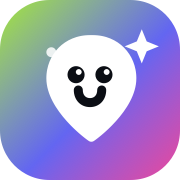
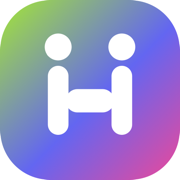
Rebrand to Hanglly

diff --git a/src/pages/LandingPage.jsx b/src/pages/LandingPage.jsx
@@ -92,7 +92,7 @@ const LandingPage = () => {
           <div className="flex items-center justify-between h-16 lg:h-20">
             <div className="flex items-center gap-2 group">
               <Logo size={40} className="group-hover:rotate-6 transition-transform" />
-              <span className="text-xl font-display font-bold text-white">Let's Go</span>
+              <span className="text-xl font-display font-bold text-white">Hanglly</span>
             </div>
             
             <div className="hidden md:flex items-center gap-8">
@@ -142,7 +142,7 @@ const LandingPage = () => {
             <h1 className="text-4xl sm:text-5xl lg:text-7xl font-display font-bold text-white mb-6 leading-tight animate-slide-up">
               Don't just chat.
               <br />
-              <span className="gradient-text-flow">Let's Go do something.</span>
+              <span className="gradient-text-flow">Let's Hanglly.</span>
             </h1>
             
             <p className="text-lg lg:text-xl text-dark-300 max-w-2xl mx-auto mb-10 animate-slide-up" style={{ animationDelay: '0.1s' }}>
@@ -310,7 +310,7 @@ const LandingPage = () => {
       <section id="features" className="py-20 relative">
         <div className="max-w-7xl mx-auto px-4 sm:px-6 lg:px-8">
           <div className="text-center mb-16">
-            <span className="badge-lime mb-4 inline-block">Why Let's Go?</span>
+            <span className="badge-lime mb-4 inline-block">Why Hanglly?</span>
             <h2 className="text-3xl lg:text-4xl font-display font-bold text-white mb-4">
               Not just another social app
             </h2>
@@ -412,7 +412,7 @@ const LandingPage = () => {
               <div className="absolute bottom-0 right-1/4 w-64 h-64 bg-hotpink-500/20 rounded-full blur-[100px] animate-float-delayed"></div>
               <div className="relative">
                 <h2 className="text-3xl lg:text-4xl font-display font-bold text-white mb-6">
-                  Ready to <span className="gradient-text-flow">Let's Go?</span>
+                  Ready to <span className="gradient-text-flow">Hanglly?</span>
                 </h2>
                 <p className="text-dark-300 max-w-xl mx-auto mb-8 text-lg">
                   Join thousands of people who are already finding their activity buddies and making real connections.
@@ -433,18 +433,18 @@ const LandingPage = () => {
           <div className="flex flex-col md:flex-row items-center justify-between gap-6">
             <div className="flex items-center gap-2">
               <Logo size={40} />
-              <span className="text-xl font-display font-bold text-white">Let's Go</span>
+              <span className="text-xl font-display font-bold text-white">Hanglly</span>
             </div>
             
             <div className="flex items-center gap-6">
               <a href="#features" className="text-dark-400 hover:text-lime-400 transition-colors">About</a>
               <Link to="/explore" className="text-dark-400 hover:text-lime-400 transition-colors">Explore</Link>
               <Link to="/register" className="text-dark-400 hover:text-lime-400 transition-colors">Get Started</Link>
-              <a href="mailto:support@letsgo.app" className="text-dark-400 hover:text-lime-400 transition-colors">Contact</a>
+              <a href="mailto:support@hanglly.app" className="text-dark-400 hover:text-lime-400 transition-colors">Contact</a>
             </div>
             
             <p className="text-dark-500 text-sm">
-              © 2025 Let's Go. All rights reserved.
+              © 2025 Hanglly. All rights reserved.
             </p>
           </div>
         </div>

diff --git a/src/components/common/Logo.jsx b/src/components/common/Logo.jsx
@@ -7,30 +7,22 @@ const Logo = ({ size = 40, className = '' }) => (
     xmlns="http://www.w3.org/2000/svg"
     className={className}
     role="img"
-    aria-label="Let's Go"
+    aria-label="Hanglly"
   >
     <defs>
-      <linearGradient id="letsgo-brand" x1="0" y1="0" x2="40" y2="40" gradientUnits="userSpaceOnUse">
+      <linearGradient id="hanglly-brand" x1="0" y1="0" x2="40" y2="40" gradientUnits="userSpaceOnUse">
         <stop offset="0" stopColor="#a3e635" />
         <stop offset="0.55" stopColor="#6366f1" />
         <stop offset="1" stopColor="#ec4899" />
       </linearGradient>
     </defs>
-    <rect width="40" height="40" rx="11" fill="url(#letsgo-brand)" />
+    <rect width="40" height="40" rx="11" fill="url(#hanglly-brand)" />
     <circle cx="11.4" cy="11.6" r="1.1" fill="#ffffff" opacity="0.85" />
-    <path
-      d="M20 7.8c-5.7 0-9.7 4.3-9.7 9.6 0 7.1 8.9 13.6 9.4 13.9a1 1 0 0 0 1.2 0c.5-.3 9.4-6.8 9.4-13.9 0-5.3-4-9.6-9.7-9.6z"
-      fill="#ffffff"
-    />
-    <path
-      d="M31.5 6.5 l1.1 2.7 2.7 1.1 -2.7 1.1 -1.1 2.7 -1.1 -2.7 -2.7 -1.1 2.7 -1.1 z"
-      fill="#ffffff"
-    />
-    <circle cx="16.9" cy="16.6" r="1.9" fill="#0b0e14" />
-    <circle cx="23.1" cy="16.6" r="1.9" fill="#0b0e14" />
-    <circle cx="17.5" cy="16" r="0.65" fill="#ffffff" />
-    <circle cx="23.7" cy="16" r="0.65" fill="#ffffff" />
-    <path d="M17.4 20 c0 1.7 1.1 2.8 2.6 2.8 s2.6 -1.1 2.6 -2.8" stroke="#0b0e14" strokeWidth="2" strokeLinecap="round" fill="none" />
+    <circle cx="12.9" cy="10.4" r="3" fill="#ffffff" />
+    <circle cx="27.1" cy="10.4" r="3" fill="#ffffff" />
+    <rect x="10.6" y="14.6" width="4.6" height="15.4" rx="2.3" fill="#ffffff" />
+    <rect x="24.8" y="14.6" width="4.6" height="15.4" rx="2.3" fill="#ffffff" />
+    <rect x="14.6" y="19.8" width="10.8" height="5.2" rx="2.6" fill="#ffffff" />
   </svg>
 );
 

diff --git a/src/pages/LetsGoNowPage.jsx b/src/pages/LetsGoNowPage.jsx
@@ -123,7 +123,7 @@ const LetsGoNowPage = () => {
           <span className="text-lime-400 font-semibold">Instant Mode</span>
         </div>
         <h1 className="text-3xl lg:text-4xl font-display font-bold text-white mb-2">
-          Let's Go Now
+          Hanglly Now
         </h1>
         <p className="text-dark-400 max-w-md mx-auto">
           Find people nearby who want to do the same thing right now
@@ -285,7 +285,7 @@ const LetsGoNowPage = () => {
                           className="flex-1 btn-primary flex items-center justify-center gap-2"
                         >
                           {match.joined ? <FiCheck className="w-4 h-4" /> : <FiZap className="w-4 h-4" />}
-                          {match.joined ? 'View Activity' : "Let's Go!"}
+                          {match.joined ? 'View Activity' : "Hanglly!"}
                         </button>
                         <button onClick={() => dismiss(match._id)} className="btn-outline px-4">
                           <FiX className="w-4 h-4" />

diff --git a/src/pages/DashboardPage.jsx b/src/pages/DashboardPage.jsx
@@ -149,14 +149,14 @@ const DashboardPage = () => {
         </div>
       )}
 
-      {/* Let's Go Now Card - cleaner gradient */}
+      {/* Hanglly Now Card - cleaner gradient */}
       <div className="relative overflow-hidden rounded-3xl bg-gradient-to-r from-lime-500 via-electric-500 to-hotpink-500 p-[1.5px] mb-12">
         <div className="relative bg-dark-900 rounded-[calc(1.5rem-1.5px)] p-8 lg:p-10 overflow-hidden">
           <div className="absolute top-0 right-0 w-40 h-40 bg-lime-500/15 rounded-full blur-[80px]"></div>
           <div className="relative flex flex-col lg:flex-row items-center gap-6">
             <div className="flex-1">
               <h2 className="text-2xl lg:text-3xl font-display font-bold text-white mb-2">
-                Let's Go Now! 🚀
+                Hanglly Now! 🚀
               </h2>
               <p className="text-dark-300">Find people for activities happening right now</p>
             </div>

diff --git a/index.html b/index.html
@@ -5,8 +5,8 @@
     <link rel="icon" type="image/svg+xml" href="/favicon.svg" />
     <meta name="viewport" content="width=device-width, initial-scale=1.0, viewport-fit=cover" />
     <meta name="theme-color" content="#0f1115" />
-    <meta name="description" content="Let's Go - Find people. Find activities. Make plans." />
-    <title>Let's Go — Find Your Activity Buddies</title>
+    <meta name="description" content="Hanglly - Find people. Find activities. Make plans." />
+    <title>Hanglly — Find Your Hangout Squad</title>
     <link rel="manifest" href="/manifest.webmanifest" />
     <link rel="apple-touch-icon" href="/apple-touch-icon.png" />
     <link rel="preconnect" href="https://fonts.googleapis.com">

diff --git a/src/pages/RegisterPage.jsx b/src/pages/RegisterPage.jsx
@@ -78,9 +78,9 @@ const RegisterPage = () => {
         <div className="text-center mb-8">
           <Link to="/" className="inline-flex items-center justify-center gap-3 mb-6">
             <Logo size={56} className="shadow-lg rounded-2xl" />
-            <span className="text-2xl font-display font-bold text-white">Let's Go</span>
+            <span className="text-2xl font-display font-bold text-white">Hanglly</span>
           </Link>
-          <h1 className="text-2xl font-bold text-white">Join Let's Go!</h1>
+          <h1 className="text-2xl font-bold text-white">Join Hanglly!</h1>
           <p className="text-dark-400 mt-2">Find like-minded people for activities</p>
         </div>
 

diff --git a/src/components/common/Fab.jsx b/src/components/common/Fab.jsx
@@ -8,7 +8,7 @@ const Fab = () => {
 
   const actions = [
     { to: '/create-activity', icon: FiTag, label: 'New Activity', color: 'bg-lime-500 text-dark-900', glow: 'shadow-glow-lime' },
-    { to: '/lets-go', icon: FiZap, label: "Let's Go Now", color: 'bg-electric-500 text-white', glow: 'shadow-glow-electric' },
+    { to: '/lets-go', icon: FiZap, label: "Hanglly Now", color: 'bg-electric-500 text-white', glow: 'shadow-glow-electric' },
     { to: '/checkin', icon: FiCheckCircle, label: 'Check In', color: 'bg-ocean-500 text-white', glow: 'shadow-lg' },
     { to: '/calendar', icon: FiCalendar, label: 'Calendar', color: 'bg-hotpink-500 text-white', glow: 'shadow-glow-pink' },
   ];

diff --git a/src/pages/LoginPage.jsx b/src/pages/LoginPage.jsx
@@ -51,7 +51,7 @@ const LoginPage = () => {
         <div className="text-center mb-8">
           <Link to="/" className="inline-flex items-center justify-center gap-3 mb-6">
             <Logo size={56} className="shadow-lg rounded-2xl" />
-            <span className="text-2xl font-display font-bold text-white">Let's Go</span>
+            <span className="text-2xl font-display font-bold text-white">Hanglly</span>
           </Link>
           <h1 className="text-2xl font-bold text-white">Welcome back!</h1>
           <p className="text-dark-400 mt-2">Sign in to find your activity buddies</p>

diff --git a/public/sw.js b/public/sw.js
@@ -1,5 +1,5 @@
 const SHELL = ['/', '/index.html', '/manifest.webmanifest', '/icon-192.png', '/icon-512.png', '/apple-touch-icon.png'];
-const SHELL_CACHE = 'letsgo-shell-v2';
+const SHELL_CACHE = 'hanglly-shell-v3';
 
 self.addEventListener('install', (event) => {
   event.waitUntil(
@@ -54,7 +54,7 @@ self.addEventListener('push', (event) => {
   } catch {
     /* ignore malformed payloads */
   }
-  const title = data.title || "Let's Go";
+  const title = data.title || "Hanglly";
   const options = {
     body: data.body || '',
     icon: data.icon || '/icon-192.png',

diff --git a/src/pages/OnboardingPage.jsx b/src/pages/OnboardingPage.jsx
@@ -274,7 +274,7 @@ const OnboardingPage = () => {
                       className="flex-1 bg-gradient-to-r from-lime-500 to-electric-500 text-dark-900 px-6 py-3.5 rounded-2xl font-bold hover:from-lime-400 hover:to-electric-400 transition-all duration-300 flex items-center justify-center gap-2 group shadow-lg hover:shadow-glow-lime"
                     >
                       <span className="text-lg">🚀</span>
-                      Let's Go!
+                      Hanglly!
                     </button>
                   </div>
                 </div>

diff --git a/src/pages/StatusPage.jsx b/src/pages/StatusPage.jsx
@@ -180,7 +180,7 @@ const StatusPage = () => {
             >
               <span className="text-2xl mb-1 block">⚡</span>
               <p className="text-sm font-semibold text-white">Yes, call me</p>
-              <p className="text-xs text-dark-400 mt-1">Let's Go Now will flag you</p>
+              <p className="text-xs text-dark-400 mt-1">Hanglly Now will flag you</p>
             </button>
             <button
               onClick={() => updateStatus({ spontaneous: false })}

diff --git a/src/components/layout/Header.jsx b/src/components/layout/Header.jsx
@@ -56,7 +56,7 @@ const Header = () => {
         {/* Logo */}
         <Link to="/dashboard" className="flex items-center gap-2">
           <Logo size={40} />
-          <span className="text-xl font-display font-bold text-white hidden sm:block">Let's Go</span>
+          <span className="text-xl font-display font-bold text-white hidden sm:block">Hanglly</span>
         </Link>
 
         {/* Search - Desktop */}
